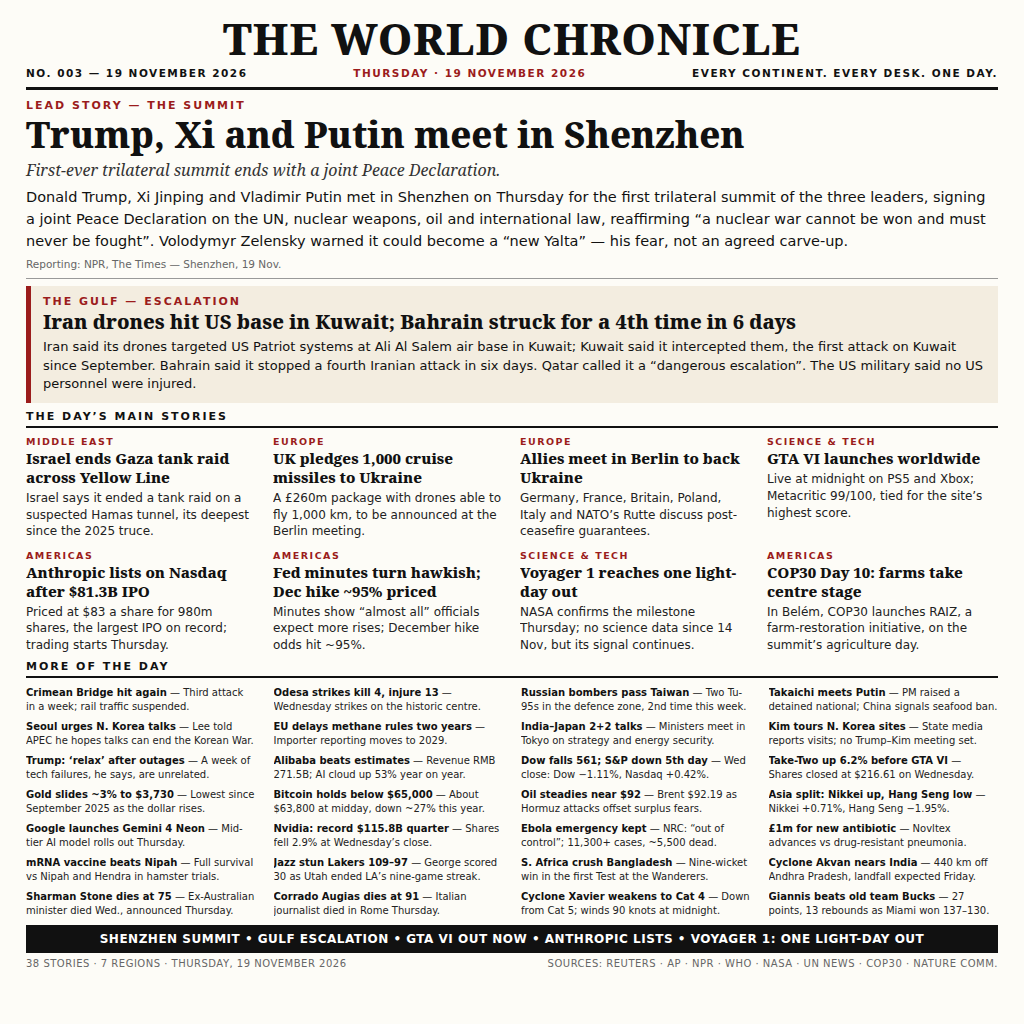
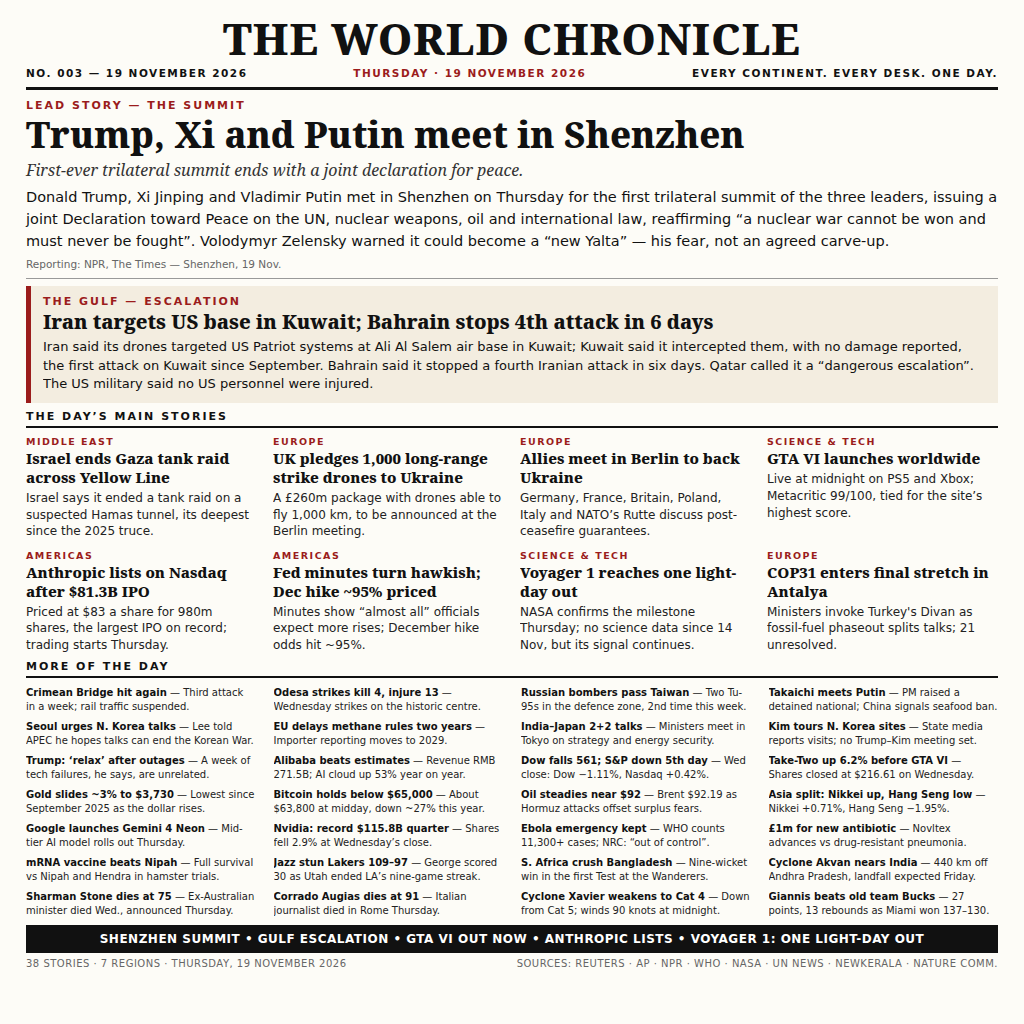
Fix (Ting REVISI): COP31 replaces wrong-year COP30; UK strike drones not cruise missiles; Gulf 'targets' + no damage reported; lead 'issuing a joint Declaration toward Peace'; Ebola figures attributed to WHO

diff --git a/VERIFICATION.md b/VERIFICATION.md
@@ -9,29 +9,33 @@ attributed in the image; nothing contested is stated as fact.
 ## LEAD — Trump, Xi and Putin meet in Shenzhen
 
 - **Fact:** Trump, Xi and Putin met in Shenzhen on 19 Nov for the first
-  trilateral summit of the three leaders; a joint "Peace Declaration"
-  covered the UN, nuclear weapons, oil production and international law,
-  reaffirming "a nuclear war cannot be won and must never be fought".
+  trilateral summit of the three leaders; a joint Declaration toward
+  Peace covered the UN, nuclear weapons, oil production and
+  international law, reaffirming "a nuclear war cannot be won and must
+  never be fought".
 - **Sources:** NPR — https://www.wutc.org/2026-11-19/trump-xi-and-putin-meet-as-global-alliances-hang-in-the-balance ; The Times live — https://www.thetimes.com/world/asia/article/trump-xi-putin-summit-shenzhen-latest-news-ddskr7pcx
 - **Date evidence:** NPR article updated 19 Nov 2026 6:21 AM EST,
   datelined Shenzhen, 19 Nov; Kremlin published the joint declaration
   the same day.
 - **Framing:** Zelensky's "new Yalta" warning is attributed to Zelensky;
-  no carve-up is presented as fact.
+  no carve-up is presented as fact. The declaration did not address the
+  Ukraine or Iran wars — neither is presented as settled by it.
 
 ## SECOND LEAD — Gulf escalation
 
 - **Fact:** Iran said its drones targeted US Patriot air-defence systems
   at Ali Al-Salem Air Base in Kuwait (18 Nov, reported 19 Nov); Kuwait
-  said its air defences intercepted them, the first such attack on
-  Kuwait since early September. Bahrain said it intercepted another
-  Iranian attack — its fourth in six days. Qatar called the attacks a
-  "dangerous escalation". The US military said no US personnel were
-  injured in the week's Iranian attack attempts.
+  said its air defences intercepted them, with no damage reported, the
+  first such attack on Kuwait since early September. Bahrain said it
+  intercepted another Iranian attack — its fourth in six days. Qatar
+  called the attacks a "dangerous escalation". The US military said no
+  US personnel were injured in the week's Iranian attack attempts.
 - **Sources:** Reuters wire via The Leaders Online — https://theleaders-online.com/dangerous-escalation-gulf-nations-scramble-to-intercept-fire-from-iran-allies-after-us-strikes-on-qeshm-island/ ; tanker/UKMTO via Dubai Standard — https://www.dubaistandard.com/us-israel-iran-war-what-uae-residents-need-to-know-on-november-19-2026/
 - **Date evidence:** Wire datelined "KUWAIT CITY, Nov 19".
 - **Framing:** Iran's "targeted" claim is Iran's claim; Kuwait reported
-  interception. NO US casualties are claimed anywhere.
+  interception with no damage reported. Headline says "targets", not
+  "hit" — the drones were intercepted. NO US casualties are claimed
+  anywhere.
 
 ## MAINS (8)
 
@@ -43,13 +47,15 @@ attributed in the image; nothing contested is stated as fact.
 - Source: Reuters — https://www.reuters.com/world/middle-east/israel-says-it-concludes-gaza-tank-raid-2026-11-19/ (dated 19 Nov 2026).
 - Framing: the tunnel is "suspected" — Israel's description, unverified.
 
-### 2. UK pledges 1,000 cruise missiles to Ukraine
-- The UK pledged 1,000 long-range cruise missiles plus drones able to
-  fly 1,000 km as part of a £260m package, to be announced at the
-  Coalition of the Willing meeting in Berlin on 19 Nov.
-- Source: Bloomberg — https://www.threads.com/@bloombergbusiness/post/Df6ISUZDv9p (18 Nov 22:30 UTC; announcement 19 Nov).
-- Framing: NOT the separate 17 Nov UK package of 1,000+ air-defence
-  missiles (£240m) — different package, different purpose.
+### 2. UK pledges 1,000 long-range strike drones to Ukraine
+- The UK pledged more than 1,000 long-range strike drones, able to fly
+  more than 1,000 km, as part of a £260m package, announced by PM Andy
+  Burnham at the Coalition of the Willing meeting in Berlin on 19 Nov.
+- Source: GOV.UK (official announcement) — https://www.gov.uk/government/news/1000-long-range-strike-drones-announced-for-ukraine-as-prime-minister-co-chairs-coalition-of-the-willing-in-berlin (published 2026-11-18T22:30:04Z; announced at the Berlin meeting 19 Nov).
+- Framing: Bloomberg's "cruise missiles" wording is wrong — the official
+  gov.uk text (long-range strike drones) wins. NOT the separate 17 Nov
+  UK package of 1,000+ air-defence missiles (£240m) — different package,
+  different purpose.
 
 ### 3. Allies meet in Berlin to back Ukraine
 - Ukraine's European allies met in Berlin on Thursday 19 Nov in a
@@ -94,19 +100,23 @@ attributed in the image; nothing contested is stated as fact.
 - Framing: milestone confirmed/celebrated 19 Nov. NEVER imply new
   science data — no data is returning; the cause is under investigation.
 
-### 8. COP30 Day 10: farms take centre stage
-- On Day 10 (19 Nov) in Belém, COP30's theme was agriculture, food
-  systems and security; the RAIZ initiative (Resilient Agriculture
-  Investment for Net-Zero Land Degradation) was launched to restore
-  degraded farmland.
-- Source: COP30 official site, Morning Brief November 19 — https://cop30.br/en/news-about-cop30/cop30-morning-brief-november-19
-- **Conference verified:** COP30 is the 30th Conference of the Parties
-  to the UNFCCC, held 10–21 November 2026 in Belém, Brazil — confirmed
-  by UNEP (http://www.unep.org/en/unep-climate-cop30-0), USCIB citing
-  UNFCCC, and IGES. Day 10 of a 10 Nov start is 19 Nov. The 18 Nov
-  entry's "COP31 in Antalya" was the wrong conference — COP31 is a
-  later meeting, not the one running now.
-- Framing: RAIZ is a launch/announcement, not money already delivered.
+### 8. COP31 enters final stretch in Antalya
+- COP31 (31st UN Climate Change Conference) in Antalya, Türkiye entered
+  its final stretch on Thursday 19 Nov: ministers remained split over
+  the pace of a fossil-fuel phaseout, with 21 issues unresolved and new
+  draft texts due before the conference closes on Friday 20 Nov. COP31
+  President Murat Kurum and negotiations chief Chris Bowen invoked
+  Turkey's centuries-old Divan tradition to coax consensus.
+- Source: newkerala.com — https://www.newkerala.com/news/a/amid-divan-spirit-geopolitical-tensions-cast-shadow-over-247.htm (datelined Antalya, Nov 19; published 2026-11-19T14:06:07Z). Corroborated by UN News — https://news.un.org/en/story/2026/11/1168833 (21 issues unresolved; Divan session).
+- **Conference verified:** COP31 is the 31st Conference of the Parties
+  to the UNFCCC, held 9–20 November 2026 in Antalya, Türkiye (UNFCCC
+  doc FCCC/CP/2026/1). The previous version's climate main was the
+  WRONG YEAR: the farm-restoration launch it described happened on
+  19 Nov 2025, not 2026.
+- Framing: the 18-page draft cover decision (fossil-fuel transition +
+  adaptation finance ≥$120bn a year by 2035) was released Mon 16 Nov —
+  it is background only, NOT presented as a 19 Nov event. The 19 Nov
+  angle is the Divan session and the final stretch only.
 
 ## BRIEFS (28)
 
@@ -331,9 +341,10 @@ attributed in the image; nothing contested is stated as fact.
   17 Nov earnings call. Dropped.
 - **GTA VI as a second story (culture batch):** duplicate of the markets
   GTA VI launch story — ONE GTA story only.
-- **COP31 in Antalya:** the wrong conference. COP30 runs 10–21 Nov 2026
-  in Belém (verified above); COP31 is a later meeting. The image uses
-  COP30 only.
+- **Previous climate main (farm-restoration launch):** WRONG YEAR — the
+  launch it described happened on 19 Nov 2025, not 19 Nov 2026. The
+  November 2026 conference is COP31 in Antalya. Replaced with the
+  genuine COP31 final-stretch story (newkerala.com, 19 Nov).
 - **EU Russia-sanctions extension / DRC–Rwanda talks / "China runway"
   / viral Kuwait explosion video / ICSPR Gaza toll figures / Haiti
   rally / Germany–Cosco block:** rejected in the research batches as
